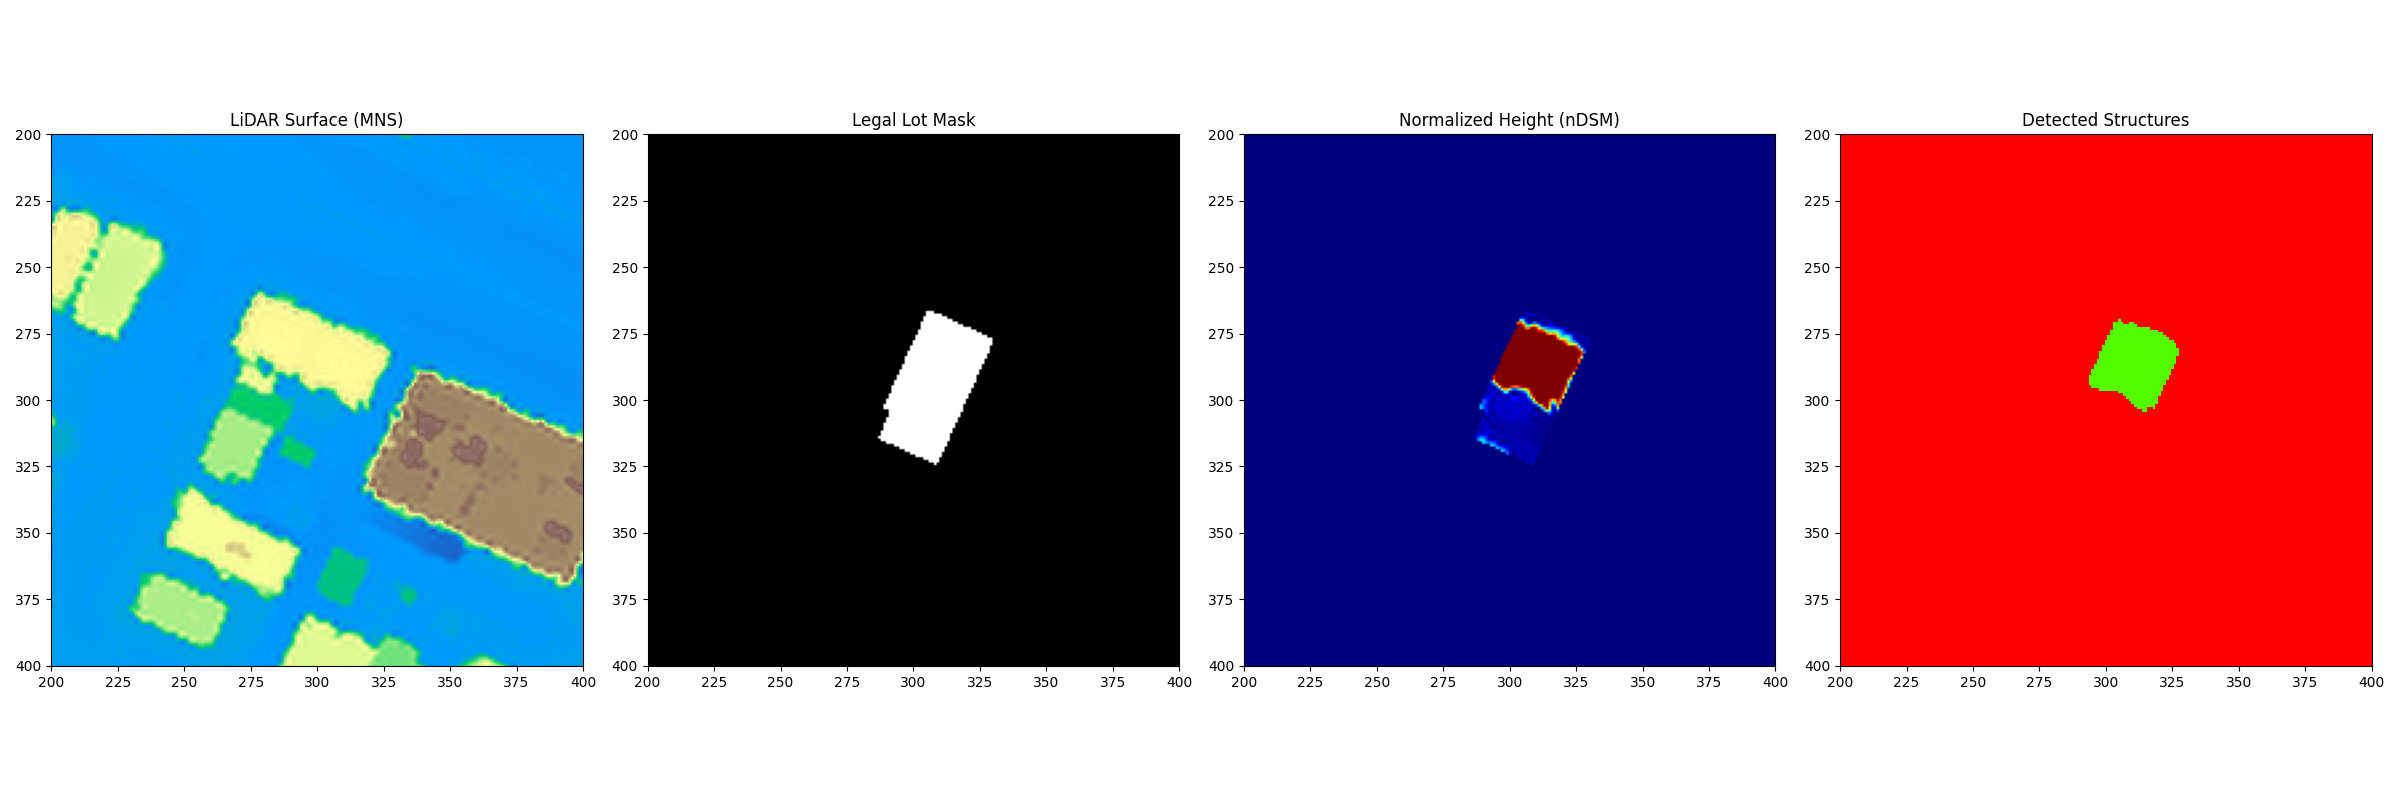
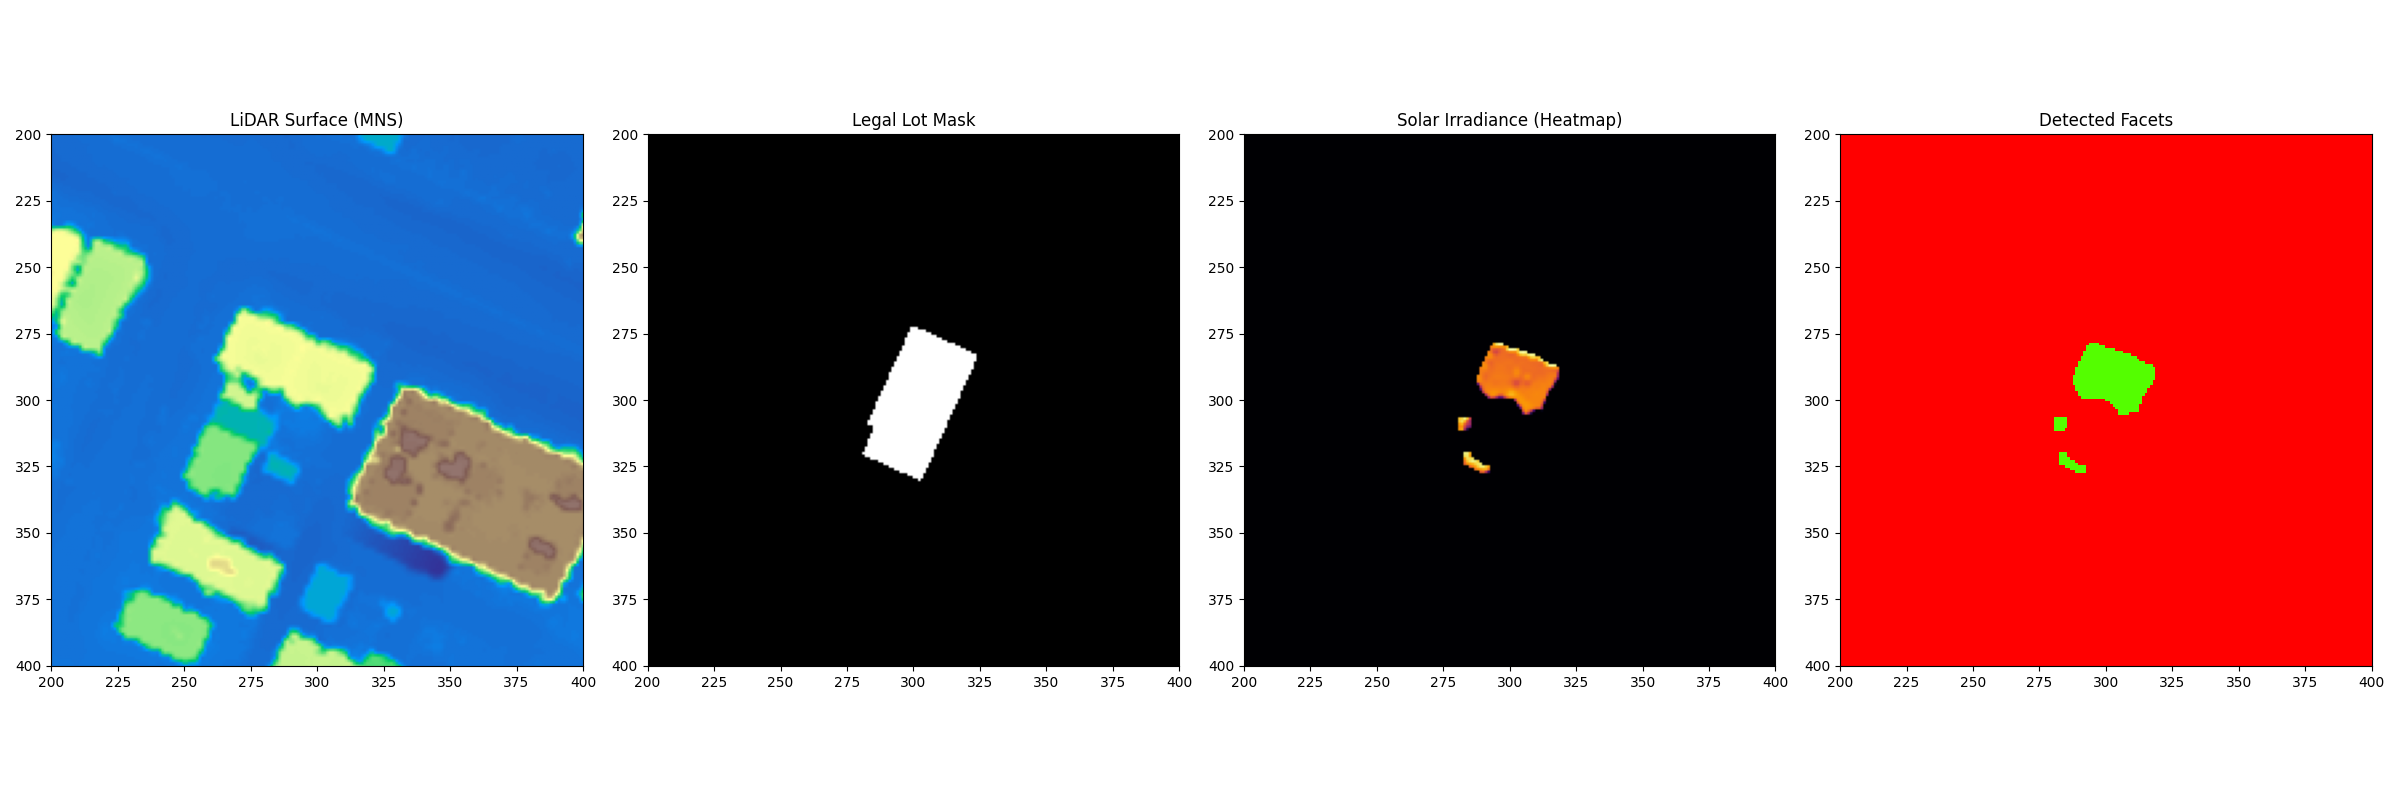
push

diff --git a/client/src/App.tsx b/client/src/App.tsx
@@ -64,10 +64,10 @@ export default function App() {
   const [selectedPoint, setSelectedPoint] = useState<{ lat: number; lon: number } | null>(null);
   const [isAnalyzing, setIsAnalyzing] = useState(false);
   const [analysisResult, setAnalysisResult] = useState<{
-    heatmap_b64: string;
-    bounds: [number, number, number, number];
-    solar_potential: number;
-    area_sqm: number;
+    heatmap: string; // Full Data URI
+    bounds: [[number, number], [number, number]]; // [[w, s], [e, n]]
+    solar_potential: string; // "1234 kWh/yr"
+    area: string; // "123 m²"
     lot_polygon: [number, number][];
   } | null>(null);
 
@@ -212,13 +212,13 @@ export default function App() {
                   Total Lot Potential
                 </h3>
                 <div style={{ fontSize: '2.2rem', fontWeight: 700, color: '#1a9641', lineHeight: 1 }}>
-                  {analysisResult.solar_potential.toLocaleString()} <span style={{ fontSize: '1rem', color: '#666' }}>kWh</span>
+                  {analysisResult.solar_potential}
                 </div>
                 
                 <div style={{ display: 'flex', gap: '15px', marginTop: '15px', fontSize: '0.85rem' }}>
                   <div>
                     <div style={{ color: '#888' }}>Total Area</div>
-                    <div style={{ fontWeight: 600 }}>{analysisResult.area_sqm} m²</div>
+                    <div style={{ color: '#888',fontWeight: 600 }}>{analysisResult.area}</div>
                   </div>
                 </div>
               </div>
@@ -266,12 +266,12 @@ export default function App() {
             <Source
               id="solar-result"
               type="image"
-              url={analysisResult.heatmap_b64}
+              url={analysisResult.heatmap}
               coordinates={[
-                [analysisResult.bounds[0], analysisResult.bounds[3]], // Top Left
-                [analysisResult.bounds[2], analysisResult.bounds[3]], // Top Right
-                [analysisResult.bounds[2], analysisResult.bounds[1]], // Bottom Right
-                [analysisResult.bounds[0], analysisResult.bounds[1]], // Bottom Left
+                [analysisResult.bounds[0][0], analysisResult.bounds[1][1]], // Top Left (West, North)
+                [analysisResult.bounds[1][0], analysisResult.bounds[1][1]], // Top Right (East, North)
+                [analysisResult.bounds[1][0], analysisResult.bounds[0][1]], // Bottom Right (East, South)
+                [analysisResult.bounds[0][0], analysisResult.bounds[0][1]], // Bottom Left (West, South)
               ]}
             >
               <Layer

diff --git a/backend/scripts/debug_visualizer.py b/backend/scripts/debug_visualizer.py
@@ -73,40 +73,23 @@ def run_visual_test():
         lot_manager = LotManager(CADASTRE_FILE)
         
         # 1. Get Lot Polygon (Projected to LiDAR CRS)
-        real_lot_polygon_proj = lot_manager.get_lot_at_point(target_lat, target_lon, target_crs="EPSG:2950")
+        real_lot_polygon_geom = lot_manager.get_lot_at_point(target_lat, target_lon, target_crs="EPSG:2950")
         
-        if real_lot_polygon_proj:
+        if real_lot_polygon_geom:
             print("      ✅ Found Lot Polygon!")
             
             with rasterio.open(str(LIDAR_FILE)) as src:
-                # 2. Convert Polygon (LiDAR CRS) -> Pixels
-                lot_polygon_pixels = []
-                print(f"      [DEBUG] First Point (Proj): {real_lot_polygon_proj[0]}")
-                for px, py in real_lot_polygon_proj:
-                    col, row = ~src.transform * (px, py)
-                    if len(lot_polygon_pixels) == 0:
-                        print(f"      [DEBUG] First Point (Pixel): col={col}, row={row}")
-                    lot_polygon_pixels.append((col, row))
+                # 2. Get Centroid for Cropping
+                centroid = real_lot_polygon_geom.centroid
+                col, row = ~src.transform * (centroid.x, centroid.y)
+                click_x, click_y = int(col), int(row)
                 
-                lot_polygon = lot_polygon_pixels
-                
-                # 3. Get Center Pixel of the Lot (for cropping)
-                # We can just take the centroid of the polygon pixels
-                poly_cols = [p[0] for p in lot_polygon]
-                poly_rows = [p[1] for p in lot_polygon]
-                click_x = int(sum(poly_cols) / len(poly_cols))
-                click_y = int(sum(poly_rows) / len(poly_rows))
                 print(f"      Center Pixel: {click_x}, {click_y}")
                 
                 # BOUNDS CHECK
                 if not (0 <= click_x < src.width and 0 <= click_y < src.height):
                     print(f"❌ Coordinates {click_x},{click_y} are out of bounds (Image: {src.width}x{src.height}).")
                     return
-
-                print(f"      [DEBUG] Click Projected: {click_x}, {click_y}")
-                print(f"      [DEBUG] Lot Polygon Start: {lot_polygon[0]}")
-                print(f"      [DEBUG] Click Projected: {click_x}, {click_y}")
-                print(f"      [DEBUG] Lot Polygon Start: {lot_polygon[0]}")
 
         else:
             print("      ⚠ No Lot found at this location.")
@@ -117,10 +100,7 @@ def run_visual_test():
         return
 
     # Run Segmentation (Lot Structures)
-    print("   -> Running 'Lot Structure Segmentation' (Blob Detection)...")
-    
-    # We need to manually crop and prepare data for segment_lot_structures
-    # essentially replicating what segment_roofs does but for the whole lot
+    print("   -> Running 'Scientific Facet Segmentation'...")
     
     # 1. Define Crop Window (Large enough for the lot)
     crop_size = 300 # Bigger crop for whole lot
@@ -131,121 +111,57 @@ def run_visual_test():
     y_min = max(0, click_y - half_size)
     y_max = min(rows, click_y + half_size)
     
-    mns_crop = mns[y_min:y_max, x_min:x_max]
-    mnt_crop = mnt[y_min:y_max, x_min:x_max]
-    
-    # CHECK FOR VALID MNT
-    # If MNT is 0 or nDSM is huge everywhere, we need to generate a synthetic MNT.
-    # We use a morphological opening (minimum filter) to estimate ground.
-    from scipy.ndimage import minimum_filter
-    
-    # Heuristic: If 90% of pixels are > 10m (assuming flat ground is ~0), MNT is likely missing.
-    # Or simpler: If MNT is all zeros.
-    if np.max(mnt_crop) == 0 or np.mean(mns_crop - mnt_crop) > 1000: # 1000m is impossible for nDSM
-        print("      ⚠ MNT seems invalid or missing. Generating Synthetic MNT (Ground Estimate)...")
-        # Window size should be larger than the largest building (e.g. 20m)
-        # Assuming 1px = 1m (approx)
-        # 2. Define Crop (300x300)
-    # We use a fixed size window around the center
-    crop_size = 300
-    half_size = crop_size // 2
-    
-    # Calculate window bounds
-    window = rasterio.windows.Window(click_x - half_size, click_y - half_size, crop_size, crop_size)
-    
-    # Read Data (Re-open file)
-    # Read Data (Re-open file)
+    # Read Crop
     with rasterio.open(str(LIDAR_FILE)) as src:
+        window = rasterio.windows.Window(x_min, y_min, x_max - x_min, y_max - y_min)
         mns_crop = src.read(1, window=window)
+        transform = src.window_transform(window)
     
     # Handle NoData
     mns_crop = np.nan_to_num(mns_crop, nan=np.nanmin(mns_crop))
     
-    # Generate Synthetic MNT (since we know it's missing/bad)
-    # We generate it at 1m resolution first (faster/smoother)
-    from scipy.ndimage import minimum_filter, gaussian_filter, zoom
+    # Generate Synthetic MNT
+    from scipy.ndimage import minimum_filter, gaussian_filter
     mnt_crop = minimum_filter(mns_crop, size=20)
     mnt_crop = gaussian_filter(mnt_crop, sigma=2)
     
-    # --- UPSCALING (Super-Resolution) ---
-    SUPER_RES_FACTOR = 2 # 2x upscaling (1m -> 0.5m)
+    # --- UPSCALING & MASK CREATION ---
+    SUPER_RES_FACTOR = 2
     print(f"   -> Upscaling Data (Factor: {SUPER_RES_FACTOR}x)...")
     
-    # Use engine's upscaling (Lanczos)
-    mns_crop, mnt_crop = engine.upscale_data(mns_crop, mnt_crop, scale_factor=SUPER_RES_FACTOR)
+    # We need to create the lot mask matching the upscaled dimensions
+    new_transform = transform * transform.scale(0.5, 0.5)
+    upscaled_shape = (mns_crop.shape[0] * SUPER_RES_FACTOR, mns_crop.shape[1] * SUPER_RES_FACTOR)
     
-    print(f"      New Shape: {mns_crop.shape}")
-
-    # Adjust Polygon to Crop Coordinates AND Scale
-    adjusted_polygon = []
-    # Crop origin in global pixels
-    crop_origin_x = click_x - half_size
-    crop_origin_y = click_y - half_size
+    lot_mask = engine.create_lot_mask(real_lot_polygon_geom, upscaled_shape, new_transform)
     
-    for px, py in lot_polygon:
-        # 1. Shift to Crop
-        cx = px - crop_origin_x
-        cy = py - crop_origin_y
-        
-        # 2. Scale
-        cx *= SUPER_RES_FACTOR
-        cy *= SUPER_RES_FACTOR
-        
-        adjusted_polygon.append((cx, cy))
-        
-    lot_mask = engine.create_lot_mask(mns_crop.shape, adjusted_polygon)
-    
-    # 3. Run Segmentation (Strict Legal Boundary)
-    # We use the official lot polygon without any shifting.
-    print("   -> Running Segmentation (Strict Legal Boundary)...")
-    
-    # Use original lot_mask
-    structures_mask, ndsm = engine.segment_lot_structures(mns_crop, mnt_crop, lot_mask)
+    # --- RUN SEGMENTATION ---
+    # segment_solar_facets handles upscaling internally for mns/mnt
+    structures_mask, nx, ny, nz = engine.segment_solar_facets(mns_crop, mnt_crop, lot_mask)
 
     if np.sum(structures_mask) == 0:
         print("❌ No structures found on lot.")
         return
 
-    # --- ALIGNMENT CHECK (Informational Only) ---
-    from scipy.ndimage import center_of_mass
-    # Calculate centroid of the detected structure (in crop pixels)
-    structure_cy, structure_cx = center_of_mass(structures_mask)
-    
-    # Calculate centroid of the lot polygon (in crop pixels)
-    poly_cols = [p[0] for p in adjusted_polygon]
-    poly_rows = [p[1] for p in adjusted_polygon]
-    lot_cx = sum(poly_cols) / len(poly_cols)
-    lot_cy = sum(poly_rows) / len(poly_rows)
-    
-    # Calculate Offset
-    offset_x = structure_cx - lot_cx
-    offset_y = structure_cy - lot_cy
-    offset_dist = np.sqrt(offset_x**2 + offset_y**2)
-    
-    print(f"      [DEBUG] Structure Centroid: {structure_cx:.2f}, {structure_cy:.2f}")
-    print(f"      [DEBUG] Lot Centroid: {lot_cx:.2f}, {lot_cy:.2f}")
-    print(f"      [DEBUG] Alignment Offset: {offset_dist:.2f} pixels")
-    
-    # Run Solar Physics
+    # --- SOLAR PHYSICS ---
     print("   -> Calculating Solar Potential...")
-    # We can just visualize the nDSM and Structure Mask for now
+    solar_scores = engine.calculate_irradiance(nx, ny, nz, structures_mask)
     
     # --- PLOTTING ---
     print("   -> Rendering Plots...")
     fig, axes = plt.subplots(1, 4, figsize=(24, 8))
     
     # Zoom Window (Center 100m x 100m)
-    # Image is 600x600 (0.5m res) -> 300m x 300m
-    # Center is 300, 300
-    # 100m window = 200 pixels
     zoom_half = 100 # pixels (50m)
-    center_x = mns_crop.shape[1] // 2
-    center_y = mns_crop.shape[0] // 2
+    center_x = structures_mask.shape[1] // 2
+    center_y = structures_mask.shape[0] // 2
     x_min, x_max = center_x - zoom_half, center_x + zoom_half
     y_min, y_max = center_y - zoom_half, center_y + zoom_half
     
-    # 1. MNS (Surface)
-    axes[0].imshow(mns_crop, cmap='terrain')
+    # 1. MNS (Surface) - Upscaled
+    # We need to upscale mns_crop manually for visualization to match mask
+    mns_high = zoom(mns_crop, SUPER_RES_FACTOR, order=1)
+    axes[0].imshow(mns_high, cmap='terrain')
     axes[0].set_title("LiDAR Surface (MNS)")
     axes[0].set_xlim(x_min, x_max)
     axes[0].set_ylim(y_max, y_min) # Invert Y for image coords
@@ -256,15 +172,15 @@ def run_visual_test():
     axes[1].set_xlim(x_min, x_max)
     axes[1].set_ylim(y_max, y_min)
     
-    # 3. nDSM (Height)
-    axes[2].imshow(ndsm, cmap='jet', vmin=0, vmax=10)
-    axes[2].set_title("Normalized Height (nDSM)")
+    # 3. Solar Scores (Heatmap)
+    axes[2].imshow(solar_scores, cmap='inferno')
+    axes[2].set_title("Solar Irradiance (Heatmap)")
     axes[2].set_xlim(x_min, x_max)
     axes[2].set_ylim(y_max, y_min)
     
     # 4. Final Structure Segmentation
     axes[3].imshow(structures_mask, cmap='prism', interpolation='nearest')
-    axes[3].set_title("Detected Structures")
+    axes[3].set_title("Detected Facets")
     axes[3].set_xlim(x_min, x_max)
     axes[3].set_ylim(y_max, y_min)
 

diff --git a/backend/app/services/solar_engine.py b/backend/app/services/solar_engine.py
@@ -89,6 +89,12 @@ class SolarEngine:
             else:
                 # Resize lot mask to match upsampled grid
                 lot_mask_high = zoom(lot_mask, self.upsample_factor, order=0) # Nearest neighbor for bool
+            
+            # DILATION: Expand mask by 1 meter (2 pixels) to catch eaves/overhangs
+            # and account for slight cadastral misalignment.
+            # 1 meter = 2 pixels at 0.5m resolution
+            dilation_struct = generate_binary_structure(2, 2)
+            lot_mask_high = scipy.ndimage.binary_dilation(lot_mask_high, structure=dilation_struct, iterations=2)
         else:
             lot_mask_high = np.ones_like(mns_high, dtype=bool)
 
@@ -102,28 +108,31 @@ class SolarEngine:
         
         # 3. DEFINING A "ROOF" (Heuristic Filtering)
         
-        # A. Height Filter: Must be off the ground (> 2.5m)
-        is_elevated = ndsm > 2.5
+        # A. Height Filter: Must be off the ground (> 1.5m)
+        is_elevated = ndsm > 1.5 # Lowered to 1.5m to catch lower eaves
+        print(f"   [DEBUG] Height > 1.5m: {np.sum(is_elevated)} pixels")
+        print(f"   [DEBUG] Height & Lot: {np.sum(is_elevated & lot_mask_high)} pixels")
         
         # B. Slope Filter: 
-        # Exclude Flat Ground (< 5 deg) and Vertical Walls (> 60 deg)
-        # 5 deg = 0.087 rad, 60 deg = 1.047 rad
-        is_roof_slope = (slope > 0.08) & (slope < 1.05)
+        # Exclude Vertical Walls (> 60 deg). Include Flat Roofs.
+        # 60 deg = ~1.04 rad
+        is_roof_slope = (slope < 1.04)
+        print(f"   [DEBUG] Slope < 60 deg: {np.sum(is_roof_slope)} pixels")
+        print(f"   [DEBUG] Slope & Lot: {np.sum(is_roof_slope & lot_mask_high)} pixels")
         
         # C. Roughness Filter (Tree Removal):
         # Calculate local variance of the surface normal Z-component.
         # Roofs are planar (low variance), Trees are chaotic (high variance).
         roughness = scipy.ndimage.generic_filter(nz, np.std, size=3)
-        is_smooth = roughness < 0.05
-
+        is_smooth = roughness < 0.20 # Relaxed to 0.20 to capture shingles/tiles
+        
         # Combine Filters
         viable_pixels = is_elevated & is_roof_slope & is_smooth & lot_mask_high
 
         # 4. MORPHOLOGICAL CLEANING
-        # Remove "Salt and Pepper" noise (leaves, chimneys)
-        # Opening = Erosion followed by Dilation
-        structure = generate_binary_structure(2, 2)
-        clean_mask = scipy.ndimage.binary_opening(viable_pixels, structure=structure)
+        # We skip binary_opening as it can erode valid roof edges.
+        # We rely on Connected Components (min_pixels) to remove noise.
+        clean_mask = viable_pixels
         
         # 5. CONNECTED COMPONENTS (Facet Extraction)
         # We label distinct roof planes.

diff --git a/README.md b/README.md
@@ -34,11 +34,15 @@ LumiSol takes a "Legal-Physics Hybrid" approach. Instead of guessing where a bui
 *   **Spatial Database**: GeoPackage (`.gpkg`) queried via GeoPandas / Shapely
 *   **Physics Engine**: Rasterio, NumPy, SciPy (ndimage)
 
-### Algorithms
-*   **Super-Resolution**: Lanczos upsampling (2x) of 1m LiDAR grids to 0.5m resolution. This preserves sharp roof edges better than standard cubic interpolation.
+### Algorithms: Scientific Physics Engine
+*   **Vector Calculus**: We calculate the 3D Surface Normal (`nx, ny, nz`) and Slope for every pixel using gradient vector analysis.
+*   **Gaussian Smoothing**: A `sigma=0.5` blur is applied before gradient calculation to prevent "stair-step" aliasing and derivative noise from upsampling.
+*   **Facet-Based Segmentation**: Instead of "blob detection", we identify viable solar facets based on strict physical properties:
+    *   **Height**: > 2.0m (Structure)
+    *   **Slope**: < 60° (Pitched/Flat Roof, not wall)
+    *   **Roughness**: Local Standard Deviation of `nz` < 0.10 (Planar surface, not tree)
+*   **Solar Irradiance**: Calculated using the **Vector Dot Product** between the surface normal and the sun vector (South @ 45° elevation), providing a scientifically accurate efficiency score.
 *   **Strict Legal Alignment**: Uses official Cadastral Polygons to mask LiDAR data, ensuring zero leakage into neighboring properties.
-*   **Dynamic Roughness Filtering**: Uses Laplacian filters and Isodata thresholding to distinguish smooth roofs from rough trees.
-*   **Morphological Cleanup**: Applies Opening and Closing operations to remove noise (salt-and-pepper) and fill small holes in detected structures.
 
 ## 📂 Project Structure
 
